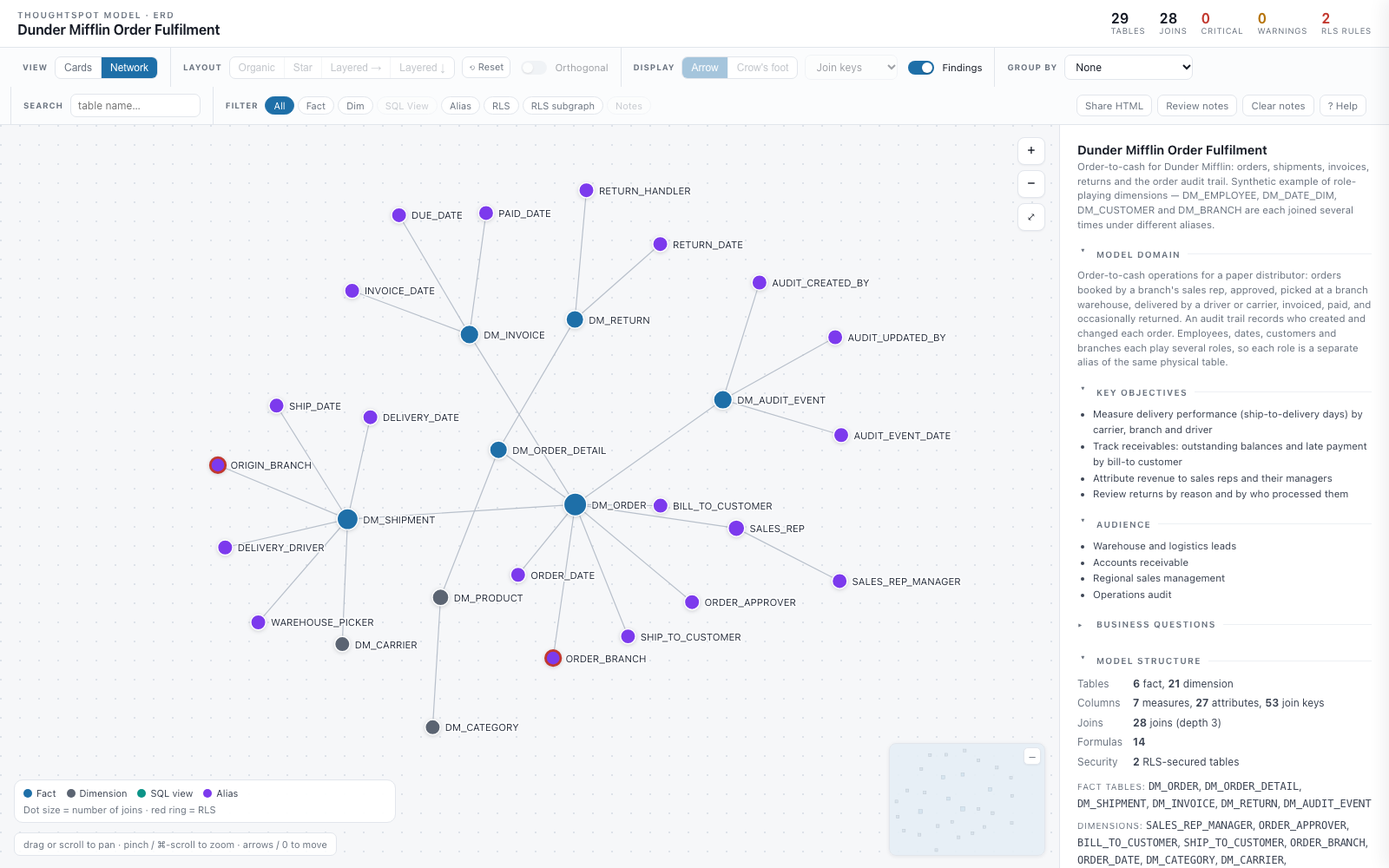
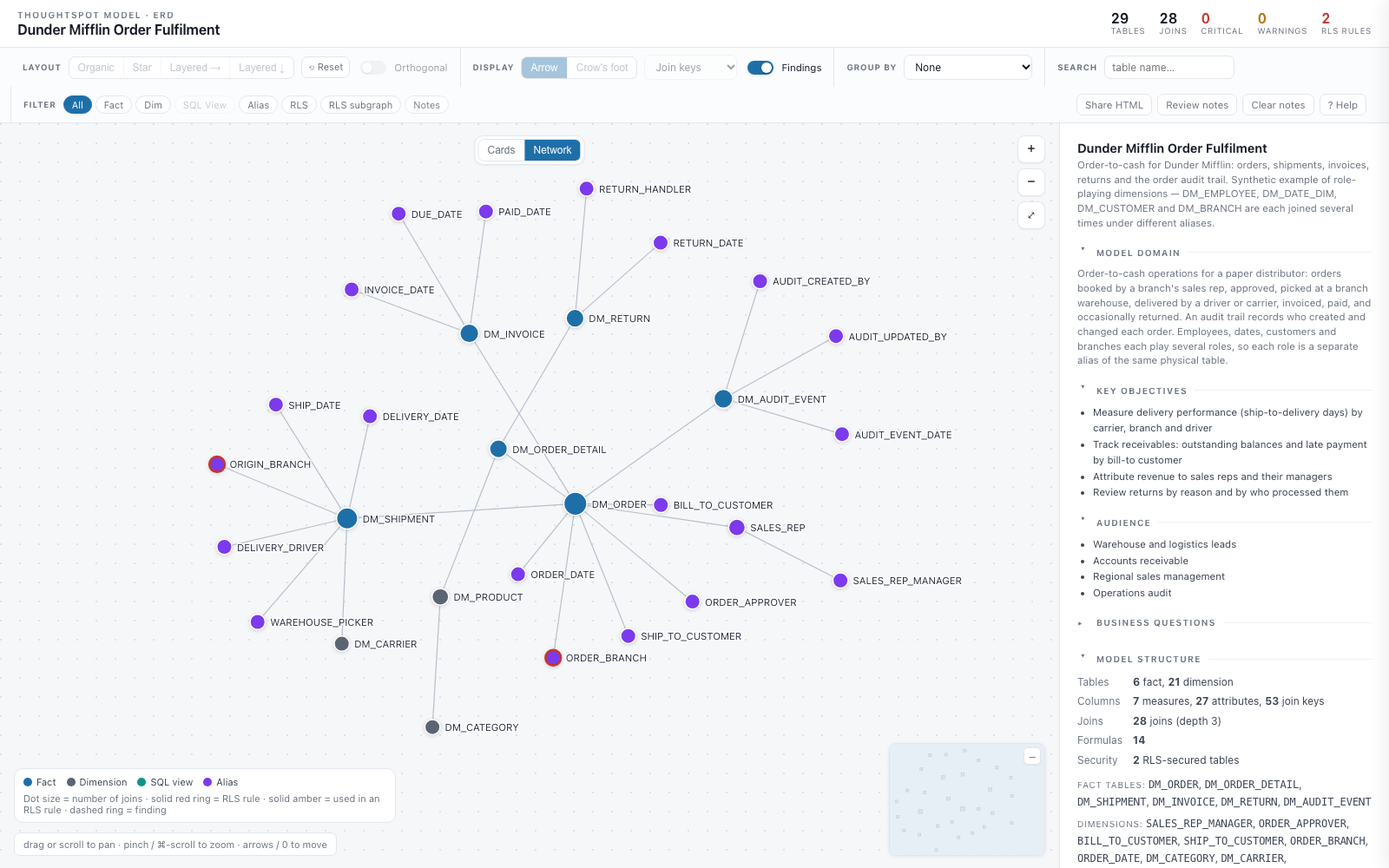
fix(erd): network-view review fixes — drawn-geometry test, distinct finding ring, toggle off the toolbar
- test_drawn_edges_meet_drawn_dots checks rendered path endpoints against rendered
  circles (the previous test re-derived geometry with the renderer's own helpers and
  passed with renderEdges sizing reverted to cards)
- a finding is a dashed ring, RLS a solid one: a critical finding on an unsecured
  table no longer reads as RLS-secured; legend says so
- the Cards | Network toggle floats on the canvas, so the toolbar no longer re-wraps
  and Cards is byte-identical (incl. fit transform) at 1280/1400/2560 widths

diff --git a/agents/cli/ts-object-model-erd/examples/order-fulfilment/model_erd.html b/agents/cli/ts-object-model-erd/examples/order-fulfilment/model_erd.html
@@ -241,6 +241,10 @@ table.cols .c-syn .syn{font-family:-apple-system,system-ui,sans-serif;font-size:
 .net-legend-note{color:var(--muted,#6B7480);flex-basis:100%}
 .seg button:disabled{opacity:.4;cursor:default}
 select:disabled{opacity:.4}
+/* The View toggle floats on the canvas (top centre), not in the toolbar: adding it to
+   the toolbar re-wrapped it at most window widths and shrank the Cards canvas. */
+.view-float{position:absolute;left:50%;top:14px;transform:translateX(-50%);z-index:4;
+  background:rgba(255,255,255,.94);border:1px solid var(--hair);border-radius:10px;padding:3px;box-shadow:0 1px 2px rgba(20,27,38,.05)}
 </style></head>
 <body><header>
   <div class="brand">
@@ -257,13 +261,6 @@ select:disabled{opacity:.4}
 </header>
 
 <div class="controls">
-  <div class="ctl-group">
-    <span class="group-label">View</span>
-    <div class="seg" id="view-seg">
-      <button data-v="cards" class="on" title="Tables as cards with columns">Cards</button>
-      <button data-v="network" title="Tables as labelled dots — the model's shape at a glance">Network</button>
-    </div>
-  </div>
   <div class="ctl-group">
     <span class="group-label">Layout</span>
     <div class="seg" id="layout-seg">
@@ -337,6 +334,12 @@ select:disabled{opacity:.4}
       </defs>
       <g id="viewport"><g id="edges"></g><g id="nodes"></g></g>
     </svg>
+    <div class="view-float" role="group" aria-label="View">
+      <div class="seg" id="view-seg">
+        <button data-v="cards" class="on" title="Tables as cards with columns">Cards</button>
+        <button data-v="network" title="Tables as labelled dots — the model's shape at a glance">Network</button>
+      </div>
+    </div>
     <div class="ctrls">
       <button id="zoom-in" title="Zoom in" aria-label="Zoom in">+</button>
       <button id="zoom-out" title="Zoom out" aria-label="Zoom out">−</button>
@@ -351,7 +354,7 @@ select:disabled{opacity:.4}
     <div class="net-legend" id="net-legend" hidden>
       <span><i style="background:#1E6FA8"></i>Fact</span><span><i style="background:#5B6472"></i>Dimension</span>
       <span><i style="background:#0D9488"></i>SQL view</span><span><i style="background:#7C3AED"></i>Alias</span>
-      <span class="net-legend-note">Dot size = number of joins · red ring = RLS</span>
+      <span class="net-legend-note">Dot size = number of joins · solid red ring = RLS rule · solid amber = used in an RLS rule · dashed ring = finding</span>
     </div>
   </div>
   <aside id="inspector"></aside>
@@ -367,7 +370,7 @@ select:disabled{opacity:.4}
     <div class="swatch" style="background:#FEF3C7;border-color:#D97706"></div><span><b>In RLS path</b> — referenced in another table’s RLS expression</span>
     <div class="swatch" style="background:#F0FDFA;border-color:#0D9488"></div><span><b>SQL View</b> — backed by a SQL query, not a physical table</span>
     <div class="swatch" style="background:#F5F3FF;border-color:#7C3AED"></div><span><b>Alias</b> — a second reference to the same physical table</span>
-    <div class="swatch" style="background:#7C3AED;border-radius:50%;border-color:#fff"></div><span><b>Network view</b> — tables as dots (sized by joins), aliases purple; switch with View → Network</span>
+    <div class="swatch" style="background:#7C3AED;border-radius:50%;border-color:#fff"></div><span><b>Network view</b> — tables as dots (sized by joins), aliases purple; switch with the Cards | Network toggle at the top of the diagram</span>
   </div>
   <div class="section-label">Join lines</div>
   <div class="help-legend">
@@ -1043,10 +1046,11 @@ function drawNodeBlock(g,n,t,stroke,sw,groupInfo){
 // Network-view node: a dot sized by join count, filled by role (alias wins over kind,
 // a Group-by colour wins over both), ringed by state, labelled to its right.
 function dotKind(t){return t.alias_of?"alias":lodKind(t);}
-function drawNodeDot(g,n,t,ring,ringW,groupInfo){
+function drawNodeDot(g,n,t,ring,ringW,groupInfo,ringDash){
   const r=n.w/2,kind=dotKind(t),fill=groupInfo?groupInfo.color:DOT_FILL[kind];
-  NS_el("circle",{class:"dot","data-kind":kind,cx:r,cy:r,r,fill,stroke:ring,"stroke-width":ringW,
+  const c=NS_el("circle",{class:"dot","data-kind":kind,cx:r,cy:r,r,fill,stroke:ring,"stroke-width":ringW,
     "vector-effect":"non-scaling-stroke"},g);
+  if(ringDash)c.setAttribute("stroke-dasharray",ringDash);
   NS_el("text",{class:"dot-label",x:2*r+6,y:r,"dominant-baseline":"central"},g).textContent=t.id;
   if(notes[t.id])NS_el("circle",{class:"dot-note",cx:2*r-2,cy:2,r:4,fill:"#D97706",stroke:"#fff","stroke-width":1},g);
 }
@@ -1089,10 +1093,15 @@ function renderNodes(){
     const gInfo=groupById?groupById[grp.byId[t.id]]:null;
 
     if(VIEW==="network"){
-      // A plain dot gets a thin white ring so it reads over lines; any state
-      // (RLS, finding, focus) keeps the card's state colour, slightly heavier.
-      const ringed=secured||inRlsPath||sev==="crit"||sev==="warn"||inFocus;
-      drawNodeDot(g,n,t,ringed?stroke:"#fff",ringed?sw+0.6:1.5,gInfo);
+      // The ring is a dot's only state cue (cards also have fills and icons), so RLS
+      // and findings must not share a look: RLS is a SOLID ring, a finding a DASHED one
+      // in its severity colour — a critical finding never reads as "secured". A plain
+      // dot gets a thin white ring so it reads over lines; focus turns the ring blue.
+      let ring="#fff",rw=1.5,rdash="";
+      if(secured){ring="#C2382E";rw=2.8;}else if(inRlsPath){ring="#D97706";rw=2.8;}
+      else if(sev==="crit"||sev==="warn"){ring=sev==="crit"?"#C2382E":"#B5730A";rw=2.6;rdash="3 2";}
+      if(inFocus){ring="#1E6FA8";rw=3.4;}
+      drawNodeDot(g,n,t,ring,rw,gInfo,rdash);
     }else if(isLod){
       drawNodeBlock(g,n,t,stroke,sw,gInfo);
     }else{

diff --git a/agents/cli/ts-object-model-erd/examples/sales-inventory/model_erd.html b/agents/cli/ts-object-model-erd/examples/sales-inventory/model_erd.html
@@ -241,6 +241,10 @@ table.cols .c-syn .syn{font-family:-apple-system,system-ui,sans-serif;font-size:
 .net-legend-note{color:var(--muted,#6B7480);flex-basis:100%}
 .seg button:disabled{opacity:.4;cursor:default}
 select:disabled{opacity:.4}
+/* The View toggle floats on the canvas (top centre), not in the toolbar: adding it to
+   the toolbar re-wrapped it at most window widths and shrank the Cards canvas. */
+.view-float{position:absolute;left:50%;top:14px;transform:translateX(-50%);z-index:4;
+  background:rgba(255,255,255,.94);border:1px solid var(--hair);border-radius:10px;padding:3px;box-shadow:0 1px 2px rgba(20,27,38,.05)}
 </style></head>
 <body><header>
   <div class="brand">
@@ -257,13 +261,6 @@ select:disabled{opacity:.4}
 </header>
 
 <div class="controls">
-  <div class="ctl-group">
-    <span class="group-label">View</span>
-    <div class="seg" id="view-seg">
-      <button data-v="cards" class="on" title="Tables as cards with columns">Cards</button>
-      <button data-v="network" title="Tables as labelled dots — the model's shape at a glance">Network</button>
-    </div>
-  </div>
   <div class="ctl-group">
     <span class="group-label">Layout</span>
     <div class="seg" id="layout-seg">
@@ -337,6 +334,12 @@ select:disabled{opacity:.4}
       </defs>
       <g id="viewport"><g id="edges"></g><g id="nodes"></g></g>
     </svg>
+    <div class="view-float" role="group" aria-label="View">
+      <div class="seg" id="view-seg">
+        <button data-v="cards" class="on" title="Tables as cards with columns">Cards</button>
+        <button data-v="network" title="Tables as labelled dots — the model's shape at a glance">Network</button>
+      </div>
+    </div>
     <div class="ctrls">
       <button id="zoom-in" title="Zoom in" aria-label="Zoom in">+</button>
       <button id="zoom-out" title="Zoom out" aria-label="Zoom out">−</button>
@@ -351,7 +354,7 @@ select:disabled{opacity:.4}
     <div class="net-legend" id="net-legend" hidden>
       <span><i style="background:#1E6FA8"></i>Fact</span><span><i style="background:#5B6472"></i>Dimension</span>
       <span><i style="background:#0D9488"></i>SQL view</span><span><i style="background:#7C3AED"></i>Alias</span>
-      <span class="net-legend-note">Dot size = number of joins · red ring = RLS</span>
+      <span class="net-legend-note">Dot size = number of joins · solid red ring = RLS rule · solid amber = used in an RLS rule · dashed ring = finding</span>
     </div>
   </div>
   <aside id="inspector"></aside>
@@ -367,7 +370,7 @@ select:disabled{opacity:.4}
     <div class="swatch" style="background:#FEF3C7;border-color:#D97706"></div><span><b>In RLS path</b> — referenced in another table’s RLS expression</span>
     <div class="swatch" style="background:#F0FDFA;border-color:#0D9488"></div><span><b>SQL View</b> — backed by a SQL query, not a physical table</span>
     <div class="swatch" style="background:#F5F3FF;border-color:#7C3AED"></div><span><b>Alias</b> — a second reference to the same physical table</span>
-    <div class="swatch" style="background:#7C3AED;border-radius:50%;border-color:#fff"></div><span><b>Network view</b> — tables as dots (sized by joins), aliases purple; switch with View → Network</span>
+    <div class="swatch" style="background:#7C3AED;border-radius:50%;border-color:#fff"></div><span><b>Network view</b> — tables as dots (sized by joins), aliases purple; switch with the Cards | Network toggle at the top of the diagram</span>
   </div>
   <div class="section-label">Join lines</div>
   <div class="help-legend">
@@ -1043,10 +1046,11 @@ function drawNodeBlock(g,n,t,stroke,sw,groupInfo){
 // Network-view node: a dot sized by join count, filled by role (alias wins over kind,
 // a Group-by colour wins over both), ringed by state, labelled to its right.
 function dotKind(t){return t.alias_of?"alias":lodKind(t);}
-function drawNodeDot(g,n,t,ring,ringW,groupInfo){
+function drawNodeDot(g,n,t,ring,ringW,groupInfo,ringDash){
   const r=n.w/2,kind=dotKind(t),fill=groupInfo?groupInfo.color:DOT_FILL[kind];
-  NS_el("circle",{class:"dot","data-kind":kind,cx:r,cy:r,r,fill,stroke:ring,"stroke-width":ringW,
+  const c=NS_el("circle",{class:"dot","data-kind":kind,cx:r,cy:r,r,fill,stroke:ring,"stroke-width":ringW,
     "vector-effect":"non-scaling-stroke"},g);
+  if(ringDash)c.setAttribute("stroke-dasharray",ringDash);
   NS_el("text",{class:"dot-label",x:2*r+6,y:r,"dominant-baseline":"central"},g).textContent=t.id;
   if(notes[t.id])NS_el("circle",{class:"dot-note",cx:2*r-2,cy:2,r:4,fill:"#D97706",stroke:"#fff","stroke-width":1},g);
 }
@@ -1089,10 +1093,15 @@ function renderNodes(){
     const gInfo=groupById?groupById[grp.byId[t.id]]:null;
 
     if(VIEW==="network"){
-      // A plain dot gets a thin white ring so it reads over lines; any state
-      // (RLS, finding, focus) keeps the card's state colour, slightly heavier.
-      const ringed=secured||inRlsPath||sev==="crit"||sev==="warn"||inFocus;
-      drawNodeDot(g,n,t,ringed?stroke:"#fff",ringed?sw+0.6:1.5,gInfo);
+      // The ring is a dot's only state cue (cards also have fills and icons), so RLS
+      // and findings must not share a look: RLS is a SOLID ring, a finding a DASHED one
+      // in its severity colour — a critical finding never reads as "secured". A plain
+      // dot gets a thin white ring so it reads over lines; focus turns the ring blue.
+      let ring="#fff",rw=1.5,rdash="";
+      if(secured){ring="#C2382E";rw=2.8;}else if(inRlsPath){ring="#D97706";rw=2.8;}
+      else if(sev==="crit"||sev==="warn"){ring=sev==="crit"?"#C2382E":"#B5730A";rw=2.6;rdash="3 2";}
+      if(inFocus){ring="#1E6FA8";rw=3.4;}
+      drawNodeDot(g,n,t,ring,rw,gInfo,rdash);
     }else if(isLod){
       drawNodeBlock(g,n,t,stroke,sw,gInfo);
     }else{

diff --git a/agents/shared/erd/renderer.js b/agents/shared/erd/renderer.js
@@ -634,10 +634,11 @@ function drawNodeBlock(g,n,t,stroke,sw,groupInfo){
 // Network-view node: a dot sized by join count, filled by role (alias wins over kind,
 // a Group-by colour wins over both), ringed by state, labelled to its right.
 function dotKind(t){return t.alias_of?"alias":lodKind(t);}
-function drawNodeDot(g,n,t,ring,ringW,groupInfo){
+function drawNodeDot(g,n,t,ring,ringW,groupInfo,ringDash){
   const r=n.w/2,kind=dotKind(t),fill=groupInfo?groupInfo.color:DOT_FILL[kind];
-  NS_el("circle",{class:"dot","data-kind":kind,cx:r,cy:r,r,fill,stroke:ring,"stroke-width":ringW,
+  const c=NS_el("circle",{class:"dot","data-kind":kind,cx:r,cy:r,r,fill,stroke:ring,"stroke-width":ringW,
     "vector-effect":"non-scaling-stroke"},g);
+  if(ringDash)c.setAttribute("stroke-dasharray",ringDash);
   NS_el("text",{class:"dot-label",x:2*r+6,y:r,"dominant-baseline":"central"},g).textContent=t.id;
   if(notes[t.id])NS_el("circle",{class:"dot-note",cx:2*r-2,cy:2,r:4,fill:"#D97706",stroke:"#fff","stroke-width":1},g);
 }
@@ -680,10 +681,15 @@ function renderNodes(){
     const gInfo=groupById?groupById[grp.byId[t.id]]:null;
 
     if(VIEW==="network"){
-      // A plain dot gets a thin white ring so it reads over lines; any state
-      // (RLS, finding, focus) keeps the card's state colour, slightly heavier.
-      const ringed=secured||inRlsPath||sev==="crit"||sev==="warn"||inFocus;
-      drawNodeDot(g,n,t,ringed?stroke:"#fff",ringed?sw+0.6:1.5,gInfo);
+      // The ring is a dot's only state cue (cards also have fills and icons), so RLS
+      // and findings must not share a look: RLS is a SOLID ring, a finding a DASHED one
+      // in its severity colour — a critical finding never reads as "secured". A plain
+      // dot gets a thin white ring so it reads over lines; focus turns the ring blue.
+      let ring="#fff",rw=1.5,rdash="";
+      if(secured){ring="#C2382E";rw=2.8;}else if(inRlsPath){ring="#D97706";rw=2.8;}
+      else if(sev==="crit"||sev==="warn"){ring=sev==="crit"?"#C2382E":"#B5730A";rw=2.6;rdash="3 2";}
+      if(inFocus){ring="#1E6FA8";rw=3.4;}
+      drawNodeDot(g,n,t,ring,rw,gInfo,rdash);
     }else if(isLod){
       drawNodeBlock(g,n,t,stroke,sw,gInfo);
     }else{

diff --git a/agents/shared/erd/renderer.css b/agents/shared/erd/renderer.css
@@ -237,3 +237,7 @@ table.cols .c-syn .syn{font-family:-apple-system,system-ui,sans-serif;font-size:
 .net-legend-note{color:var(--muted,#6B7480);flex-basis:100%}
 .seg button:disabled{opacity:.4;cursor:default}
 select:disabled{opacity:.4}
+/* The View toggle floats on the canvas (top centre), not in the toolbar: adding it to
+   the toolbar re-wrapped it at most window widths and shrank the Cards canvas. */
+.view-float{position:absolute;left:50%;top:14px;transform:translateX(-50%);z-index:4;
+  background:rgba(255,255,255,.94);border:1px solid var(--hair);border-radius:10px;padding:3px;box-shadow:0 1px 2px rgba(20,27,38,.05)}

diff --git a/agents/cli/ts-object-model-erd/tests/test_network_view.py b/agents/cli/ts-object-model-erd/tests/test_network_view.py
@@ -187,3 +187,58 @@ def test_labels_hide_when_zoomed_far_out(FULFIL, tmp_path):
       view.k=1;applyView();const near=document.getElementById('viewport').classList.contains('net-far');
       return {far,near};""", tmp_path, hash=NET)
     assert r == {"far": True, "near": False}
+
+
+def test_drawn_edges_meet_drawn_dots(FULFIL, tmp_path):
+    """Review I1: check the DRAWN geometry (path d vs circle), not the renderer's own
+    helpers, and that every node keeps dot size through a Cards/Network round trip."""
+    r = browser.probe(FULFIL, """
+      const check=()=>{
+        const dot={};document.querySelectorAll('#nodes g.node').forEach(g=>{
+          const c=g.querySelector('circle.dot'),m=/translate\\(([-\\d.e]+),([-\\d.e]+)\\)/.exec(g.getAttribute('transform'));
+          const r=+c.getAttribute('r');dot[g.querySelector('.dot-label').textContent]={x:+m[1]+r,y:+m[2]+r,r};});
+        const bad=[];
+        [...document.querySelectorAll('#edges path.edge')].forEach((p,i)=>{
+          const nums=p.getAttribute('d').match(/-?[\\d.]+(e-?\\d+)?/g).map(Number);
+          const e=edges[i],ends=[[e.j.from,nums[0],nums[1]],[e.j.to,nums[nums.length-2],nums[nums.length-1]]];
+          ends.forEach(([id,x,y])=>{const D=dot[id],d=Math.hypot(x-D.x,y-D.y);if(Math.abs(d-D.r)>0.5)bad.push([id,d,D.r]);});});
+        const size=nodes.filter(n=>!(n.w===n.h&&Math.abs(n.w-2*dotR(n.t))<1e-9)).map(n=>n.t.id);
+        return {bad,size};};
+      const first=check();
+      setView('cards');setView('network');
+      return {first,again:check()};""", tmp_path, hash=NET)
+    assert r["first"] == {"bad": [], "size": []}
+    assert r["again"] == {"bad": [], "size": []}
+
+
+def test_finding_ring_is_distinct_from_rls_ring(tmp_path):
+    """Review I2: in network view the ring is the only state cue, so a critical finding
+    on an unsecured table must not read as RLS (solid red)."""
+    import render
+    def t(i, rls=None):
+        return {"id": i, "kind": "dim", "cols": [], "rls": rls or [], "is_sql_view": False,
+                "sql_query": None, "alias_of": None, "in_rls_path": False}
+    bundle = {"models": [{"model": {"name": "R", "guid": "", "description": ""},
+                          "tables": [t("D_SECURED", [{"name": "r", "expr": "x"}]), t("D_CRIT_ONLY")],
+                          "joins": [], "formulas": {},
+                          "findings": [{"target": "D_CRIT_ONLY", "sev": "crit", "title": "x", "detail": ""}]}],
+              "index": [], "dropped": []}
+    page = tmp_path / "r.html"; render.write_html(bundle, str(page))
+    r = browser.probe(str(page), """
+      const ring=id=>{const g=[...document.querySelectorAll('#nodes g.node')].find(g=>g.querySelector('.dot-label').textContent===id);
+        const c=g.querySelector('circle.dot');return [c.getAttribute('stroke'),c.getAttribute('stroke-dasharray')||''];};
+      return {sec:ring('D_SECURED'),crit:ring('D_CRIT_ONLY'),legend:document.getElementById('net-legend').textContent};""",
+        tmp_path, hash=NET)
+    assert r["sec"] != r["crit"]
+    assert r["crit"][1] != ""          # findings are dashed
+    assert r["sec"][1] == ""           # RLS is solid
+    assert "finding" in r["legend"].lower()
+
+
+def test_view_toggle_does_not_touch_the_toolbar(FULFIL, tmp_path):
+    """Review I3: the toggle lives on the canvas, so the toolbar cannot re-wrap and
+    Cards keeps its exact canvas size at every window width."""
+    r = browser.probe(FULFIL, """
+      const v=document.getElementById('view-seg');
+      return {inControls:!!v.closest('.controls'), onCanvas:!!v.closest('.canvas-wrap')};""", tmp_path)
+    assert r == {"inControls": False, "onCanvas": True}

diff --git a/agents/shared/erd/render.py b/agents/shared/erd/render.py
@@ -26,13 +26,6 @@ _BODY = """<header>
 
 <div class="controls">
   <div class="ctl-group">
-    <span class="group-label">View</span>
-    <div class="seg" id="view-seg">
-      <button data-v="cards" class="on" title="Tables as cards with columns">Cards</button>
-      <button data-v="network" title="Tables as labelled dots — the model's shape at a glance">Network</button>
-    </div>
-  </div>
-  <div class="ctl-group">
     <span class="group-label">Layout</span>
     <div class="seg" id="layout-seg">
       <button data-l="organic" class="on">Organic</button>
@@ -105,6 +98,12 @@ _BODY = """<header>
       </defs>
       <g id="viewport"><g id="edges"></g><g id="nodes"></g></g>
     </svg>
+    <div class="view-float" role="group" aria-label="View">
+      <div class="seg" id="view-seg">
+        <button data-v="cards" class="on" title="Tables as cards with columns">Cards</button>
+        <button data-v="network" title="Tables as labelled dots — the model's shape at a glance">Network</button>
+      </div>
+    </div>
     <div class="ctrls">
       <button id="zoom-in" title="Zoom in" aria-label="Zoom in">+</button>
       <button id="zoom-out" title="Zoom out" aria-label="Zoom out">−</button>
@@ -119,7 +118,7 @@ _BODY = """<header>
     <div class="net-legend" id="net-legend" hidden>
       <span><i style="background:#1E6FA8"></i>Fact</span><span><i style="background:#5B6472"></i>Dimension</span>
       <span><i style="background:#0D9488"></i>SQL view</span><span><i style="background:#7C3AED"></i>Alias</span>
-      <span class="net-legend-note">Dot size = number of joins · red ring = RLS</span>
+      <span class="net-legend-note">Dot size = number of joins · solid red ring = RLS rule · solid amber = used in an RLS rule · dashed ring = finding</span>
     </div>
   </div>
   <aside id="inspector"></aside>
@@ -135,7 +134,7 @@ _BODY = """<header>
     <div class="swatch" style="background:#FEF3C7;border-color:#D97706"></div><span><b>In RLS path</b> — referenced in another table’s RLS expression</span>
     <div class="swatch" style="background:#F0FDFA;border-color:#0D9488"></div><span><b>SQL View</b> — backed by a SQL query, not a physical table</span>
     <div class="swatch" style="background:#F5F3FF;border-color:#7C3AED"></div><span><b>Alias</b> — a second reference to the same physical table</span>
-    <div class="swatch" style="background:#7C3AED;border-radius:50%;border-color:#fff"></div><span><b>Network view</b> — tables as dots (sized by joins), aliases purple; switch with View → Network</span>
+    <div class="swatch" style="background:#7C3AED;border-radius:50%;border-color:#fff"></div><span><b>Network view</b> — tables as dots (sized by joins), aliases purple; switch with the Cards | Network toggle at the top of the diagram</span>
   </div>
   <div class="section-label">Join lines</div>
   <div class="help-legend">

diff --git a/agents/cli/ts-object-model-erd/SKILL.md b/agents/cli/ts-object-model-erd/SKILL.md
@@ -310,7 +310,7 @@ HTML file; no ThoughtSpot login required to view.
 
 | Version | Date | Summary |
 |---|---|---|
-| 1.9.0 | 2026-10-14 | **Network view.** A new View toggle (Cards / Network) draws each table as a labelled dot sized by join count. Fill shows role: fact, dimension, SQL view, or alias in purple. A Group-by colour overrides the fill, and RLS, findings and focus show as the ring. Joins are plain lines, and the layout is a deterministic force layout spaced for label width rather than card width. One geometry seam (`nodeSize`) feeds fit, the minimap, edge endpoints and drag in both views, and every card and edge in Cards renders byte-identically to before (the toolbar gained a control, so the canvas is 2px shorter). The choice persists per browser (`ts-erd-view`); `#view=network` opens a first visit in Network. Fixes a latent Share HTML bug the view would have triggered: the baked positions seed the recipient's card layout, so they are now always card positions. Behaviour tests run the real viewer in headless Chrome. |
+| 1.9.0 | 2026-10-14 | **Network view.** A Cards / Network toggle, floating at the top of the diagram, draws each table as a labelled dot sized by join count. Fill shows role: fact, dimension, SQL view, or alias in purple. A Group-by colour overrides the fill. The ring carries state: solid red for an RLS rule, solid amber for a table used in one, dashed for a finding, blue for focus. Joins are plain lines, and the layout is a deterministic force layout spaced for label width rather than card width. One geometry seam (`nodeSize`) feeds fit, the minimap, edge endpoints and drag in both views, and Cards renders byte-identically to before at every window size tested (the toggle sits on the canvas, so the toolbar is untouched). The choice persists per browser (`ts-erd-view`); `#view=network` opens a first visit in Network. Fixes a latent Share HTML bug the view would have triggered: the baked positions seed the recipient's card layout, so they are now always card positions. Behaviour tests run the real viewer in headless Chrome. |
 | 1.8.1 | 2026-10-14 | **Browsable examples.** New `examples/` folder with two rendered, self-contained ERDs built from synthetic, lint-clean TML: *Dunder Mifflin Sales & Inventory* (8 tables, a star schema with table-level joins and semi-additive formulas) and *Dunder Mifflin Order Fulfilment* (29 tables, 20 of them aliases; role-playing employee/date/customer/branch dimensions, an alias self-join, and RLS on a physical table showing on both of its aliases). Each example ships with its TML, business-context JSON, a screenshot and an index README. `tests/test_examples.py` re-renders every example and fails on drift, because each HTML file has the viewer baked in. No change to the builder or the renderer. |
 | 1.8.0 | 2026-08-05 | **BL-205 — render an ERD from a source semantic definition.** New Step 1 option **(C)**, covering a Snowflake Semantic View and a Databricks Metric View, with a Step 1.5 that converts offline and hands the emitted Model TML to the existing render. The conversion always worked without a ThoughtSpot instance; what blocked it was that both `build-model`s demand warehouse-registration inputs a diagram never uses, so producing one meant hand-deriving a tables map. `--tables auto` (ts-cli 0.129.0) closes that, and on Databricks `--connection` is no longer required alongside it. Scoped to those two formats deliberately: they are declarative semantic-layer objects, while the BI-workbook converters invent the table layer and would stub the decisions that shape the diagram — those still render via option (A) after a real conversion. The step also requires reporting `SKIPPED` translations (absent from the diagram, so silence would misrepresent the source) and stating that the ERD shows the ThoughtSpot Model the source converts to. |
 | 1.7.3 | 2026-08-05 | **Column descriptions never reached the ERD.** `_column_entry` read `desc` from a column's **top-level** `description` only — the field its own docstring notes is "usually null" — while falling back to `properties` for `synonyms` and `ai_context`. Model TML puts a column comment under `properties.description`, so every description a conversion skill emits was dropped and the column inspector rendered blank: a Snowflake Semantic View converted with `/ts-convert-from-snowflake-sv` carries a `comment=` on each dimension, metric and fact, and all 60 of them were lost on a 13-table support-case model. `description` now takes the same `properties` fallback as its two neighbours, with the top-level field still winning when an export carries both. |

diff --git a/agents/cli/ts-object-model-erd/examples/README.md b/agents/cli/ts-object-model-erd/examples/README.md
@@ -42,7 +42,7 @@ written out as ThoughtSpot TML.
 
 ![Order Fulfilment ERD](order-fulfilment/screenshot.png)
 
-The same model in **View → Network**: dots sized by join count, with aliases in
+The same model in **Network** view (the Cards | Network toggle at the top of the diagram): dots sized by join count, with aliases in
 purple. The role-playing fan-out around each fact is easier to see here than with
 cards. Add `#view=network` to the file's URL to open it in this view.
 
